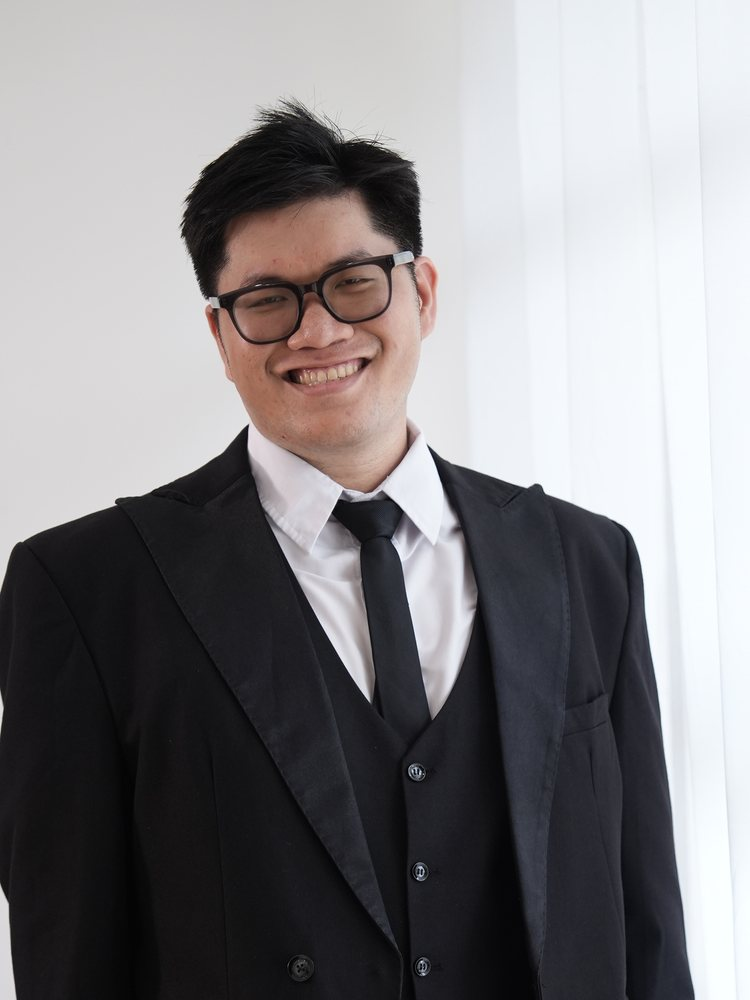
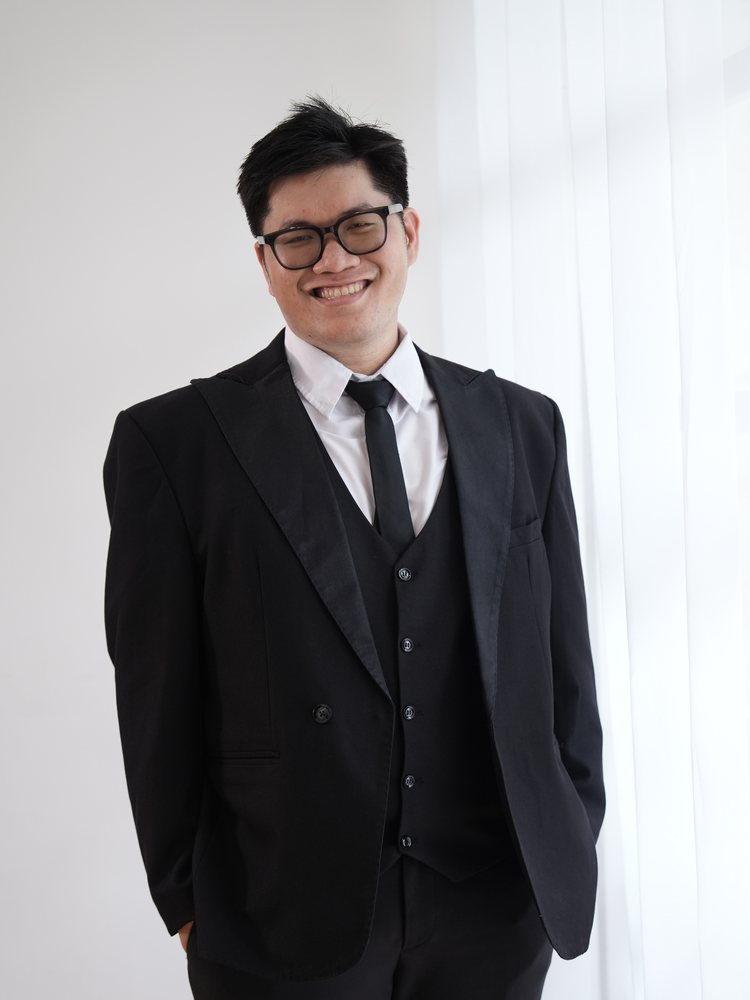
feat: tat form xac nhan + loi chuc, doi tieu de muc QR thanh 'Gui trao yeu thuong', can lai anh chu re

diff --git a/assets/js/config.js b/assets/js/config.js
@@ -150,7 +150,7 @@ const CONFIG = {
      Để rỗng "" thì form vẫn hiện nhưng KHÔNG gửi đi đâu (chế độ thử).
      --------------------------------------------------------------- */
   rsvp: {
-    show:     true,
+    show:     false,   // thiệp chỉ để xem thông tin — tắt form xác nhận
     eyebrow:  "Xác nhận",
     title:    "Quý vị sẽ đến chứ?",
     note:     "Xin quý vị phản hồi trước ngày 20.10.2026 để gia đình tiện sắp xếp chỗ ngồi.",
@@ -164,8 +164,8 @@ const CONFIG = {
      --------------------------------------------------------------- */
   gift: {
     show:    true,
-    eyebrow: "Mừng cưới",
-    title:   "Hộp mừng cưới",
+    eyebrow: "Thay lời chúc phúc",
+    title:   "Gửi trao yêu thương",
     note:    "Sự có mặt của quý vị đã là món quà lớn nhất. Nếu ở xa không tiện đến, đây là đôi dòng gửi gắm yêu thương.",
     accounts: [
       {
@@ -189,7 +189,7 @@ const CONFIG = {
      10. SỔ LƯU BÚT — lời chúc khách gửi (đi chung endpoint với RSVP)
      --------------------------------------------------------------- */
   guestbook: {
-    show:    true,
+    show:    false,   // tắt form gửi lời chúc
     eyebrow: "Lưu bút",
     title:   "Gửi lời chúc phúc",
     note:    "Mỗi lời chúc đều được gia đình đọc và giữ lại.",
